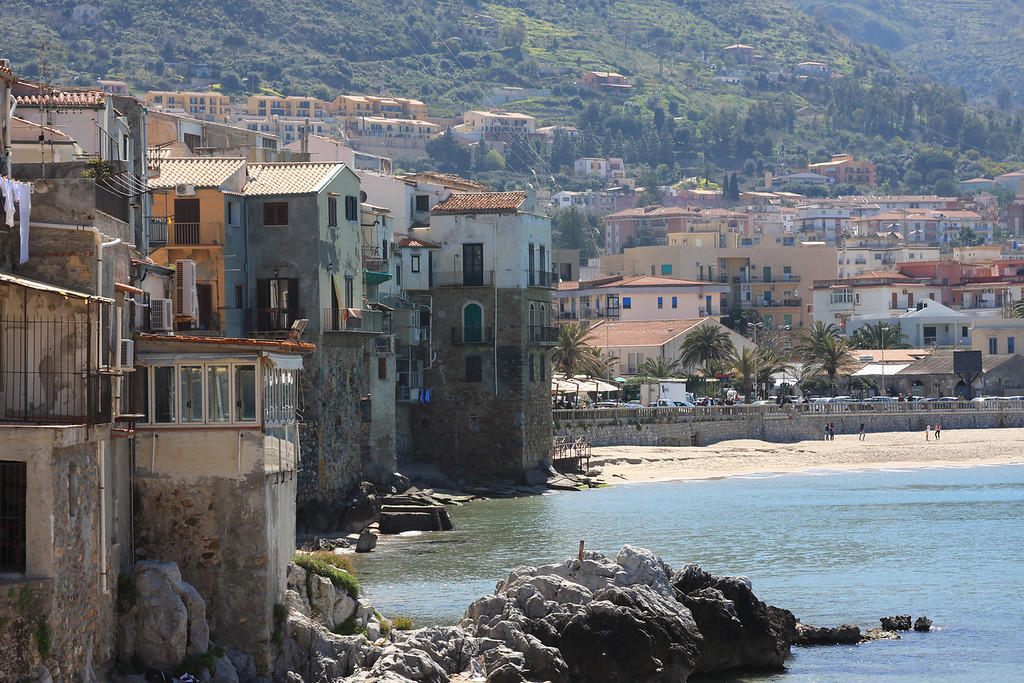
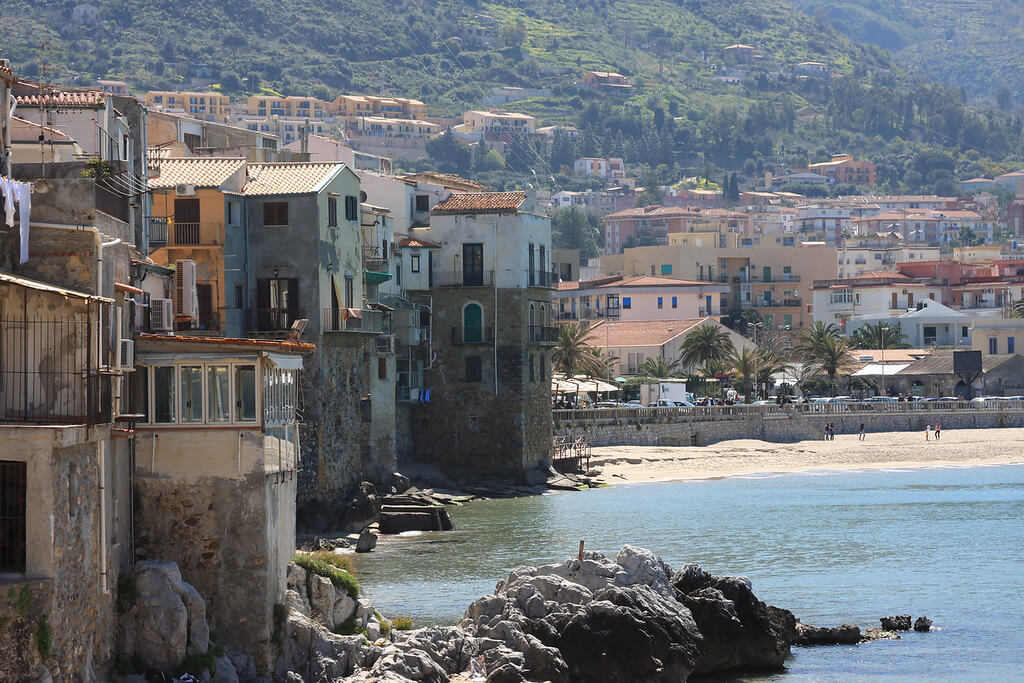
Updated media query to target SVG
index.scss
  - inside the media query, replaced reference to `.icon-img` with
    `svg` so the new SVG icons would resize on mobile
    - tested to confirm
  - removed old icon font styling since it's no longer used

cut ~40% of the file size from the cefalu image using an online
  compression tool

Changed region(s): [[0.1875, 0.246, 0.2188, 0.2767]]

diff --git a/assets/styles/index.scss b/assets/styles/index.scss
@@ -292,16 +292,6 @@ section {
   #ubuntu-os {
     border-color: $ubuntu-os;
   }
-
-  .icon-img {
-    font-size: 5rem;
-    margin: 1.5rem;
-    padding-bottom: 0.5rem;
-
-    &:nth-of-type(n) {
-      border-bottom: 0.145rem solid;
-    }
-  }
 }
 
 /* The hero image */
@@ -462,7 +452,7 @@ section {
     font-size: 4rem;
   }
 
-  .icons-wrapper .icon-img {
+  .icons-wrapper svg {
     font-size: 4rem;
     margin: 1.25rem;
   }
